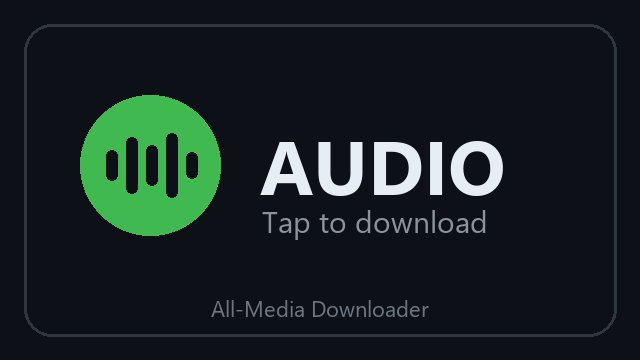
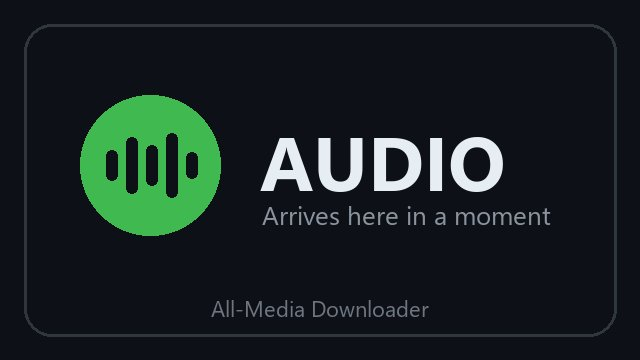
fix(inline): placeholder text that reads right in the chat, not just the picker
"Tap to download" sat in the sent message while the file was prepared,
and tapping it only opened the picture. Now: "Arrives here in a moment".
Placeholder cache key versioned so the new images get uploaded.

diff --git a/bot/handlers/inline.py b/bot/handlers/inline.py
@@ -122,7 +122,8 @@ def _fetch_title(url: str) -> str:
 
 async def _placeholder_file_id(context: ContextTypes.DEFAULT_TYPE, mode: str) -> str | None:
     """Upload the labelled placeholder photo once; reuse its file_id after."""
-    name = f"placeholder_{mode}"
+    # Versioned: a redesigned image needs a fresh upload, not the old file_id.
+    name = f"placeholder_{mode}_v2"
     cached = inline_cache.get_meta(name)
     if cached:
         return cached
